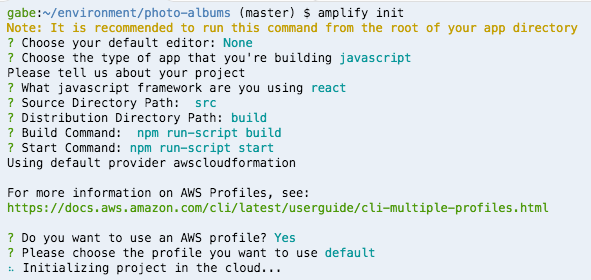
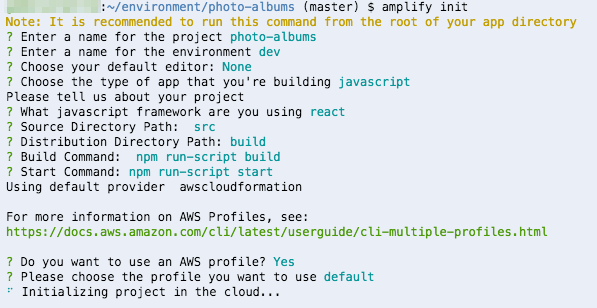
Updated to include new env parameter used by recent versions of Amplify

Changed region(s): [[0.0, 0.0, 1.0, 0.6286], [0.0, 0.6571, 0.9442, 0.7714], [0.0, 0.8286, 0.6396, 0.9714]]

diff --git a/content/70_generating_thumbnails/20_connecting_the_lambda_to_the_bucket.md b/content/70_generating_thumbnails/20_connecting_the_lambda_to_the_bucket.md
@@ -9,7 +9,7 @@ Now that we've created our Photo Processor function, we need to set up a trigger
 
 1. **Replace photo-albums/amplify/backend/storage/photoalbumsstorage/s3-cloudformation-template.json** with the following:
 <div style="height: 550px; overflow-y: scroll;">
-{{< highlight json "hl_lines=78-87 121-144 147-163">}}
+{{< highlight json "hl_lines=26-28 90-99 152-175 178-195">}}
 {
 	"AWSTemplateFormatVersion": "2010-09-09",
 	"Description": "S3 resource stack creation using Amplify CLI",
@@ -34,9 +34,21 @@ Now that we've created our Photo Processor function, we need to set up a trigger
 		},
 		"authPermissions": {
 			"Type": "String"
-		}
+		},
+		"env": {
+            "Type": "String"
+        }
+
 	},
 	"Conditions": {
+		"ShouldNotCreateEnvResources": {
+            "Fn::Equals": [
+                {
+                    "Ref": "env"
+                },
+                "NONE"
+            ]
+        },
 		"EnableUnauthReadWrite": {
 			"Fn::Equals": [
 				{
@@ -102,8 +114,27 @@ Now that we've created our Photo Processor function, we need to set up a trigger
 			"DeletionPolicy" : "Retain",
 			"Properties": {
 				"BucketName": {
-					"Ref": "bucketName"
-				},
+                    "Fn::If": [
+                        "ShouldNotCreateEnvResources",
+                        {
+                            "Ref": "bucketName"
+                        },
+                        {
+                            "Fn::Join": [
+                                "",
+                                [
+                                    {
+                                        "Ref": "bucketName"
+                                    },
+                                    "-",
+                                    {
+                                        "Ref": "env"
+                                    }
+                                ]
+                            ]
+                        }
+                    ]
+                },
 				"CorsConfiguration": {
 					"CorsRules": [
 						{
@@ -825,9 +856,12 @@ You can find this value in **photo-albums/src/aws-exports.js** under the **aws_u
 4. Wait for the update to complete. This step usually only takes a minute or two.
 
 ### What we changed in amplify/.../s3-cloudformation-template.json
-- Added a *NotificationConfiguration* property to the S3Bucket resource, configuring the bucket to invoke our PhotoProcessor lambda function when new photos are added to the 'uploads/' prefix
+- Added a *env* parameter, allowing Amplify to pass in the current Amplify environment name to the template
 
 - Added a *InvokePhotoProcessorLambda* resource, giving the S3Bucket permission to invoke the PhotoProcessor lambda function.
+
+- Added a *NotificationConfiguration* property to the S3Bucket resource, configuring the bucket to invoke our PhotoProcessor lambda function when new photos are added to the 'uploads/' prefix
+
 
 - Added a *DenyListS3Buckets* IAM policy, preventing authenticated users from listing the contents of any buckets on S3
 

diff --git a/content/70_generating_thumbnails/10_creating_a_photo_processor_lambda.md b/content/70_generating_thumbnails/10_creating_a_photo_processor_lambda.md
@@ -212,11 +212,14 @@ exports.handler = async (event, context, callback) => {
 
 8.  **Replace photo-albums/amplify/backend/function/workshopphotoprocessor/workshopphotoprocessor-cloudformation-template.json** with the following:
 <div style="height: 550px; overflow-y: scroll;">
-{{< highlight json "hl_lines=4-11 26-31 100-183">}}
+{{< highlight json "hl_lines=4-14 29-36 100-183">}}
 {
 	"AWSTemplateFormatVersion": "2010-09-09",
 	"Description": "Lambda resource stack creation using Amplify CLI",
 	"Parameters": {
+		"env": {
+            "Type": "String"
+        },
 		"S3UserfilesBucketName": {
 			"Type": "String"
 		},
@@ -240,6 +243,7 @@ exports.handler = async (event, context, callback) => {
 				"Timeout": "25",
 				"Environment": {
 					"Variables": {
+						"ENV": {"Ref": "env"},
 						"THUMBNAIL_WIDTH": "80",
 						"THUMBNAIL_HEIGHT": "80",
 						"DYNAMODB_PHOTOS_TABLE_ARN": { "Ref": "DynamoDBPhotosTableArn" }
@@ -427,9 +431,9 @@ exports.handler = async (event, context, callback) => {
 ### What we changed
 - Created a *parameters.json* file to pass some values into the Photo Processor function's CloudFormation template
 
-- Added parameters *S3UserfilesBucketName* and *DynamoDBPhotosTableArn* to the Photo Processor function's CloudFormation template
+- Added parameters *env*, *S3UserfilesBucketName*, and *DynamoDBPhotosTableArn* to the Photo Processor function's CloudFormation template
 
-- Added environment variables to the Photo Processor function's configuration: *THUMBNAIL_WIDTH*, *THUMBNAIL_HEIGHT*, *DYNAMODB_PHOTOS_TABLE_ARN*
+- Added environment variables to the Photo Processor function's configuration: *ENV*, *THUMBNAIL_WIDTH*, *THUMBNAIL_HEIGHT*, *DYNAMODB_PHOTOS_TABLE_ARN*
 
 - Added an *AllPrivsForPhotoAlbums* IAM policy to grant the function's role read and write access to the S3 bucket containing our photos
 

diff --git a/content/30_adding_auth/10_adding_auth_back.md b/content/30_adding_auth/10_adding_auth_back.md
@@ -21,6 +21,10 @@ Here's what the sign-in screen will look like:
 
 1. **Run** `amplify init`
 
+1. **Press _Enter_** to accept the default project name 'photo-albums'
+
+1. **Enter 'dev'** for the environment name
+
 1. **Select 'None'** for the default editor (we're using Cloud9)
 
 1. **Choose JavaScript and React** when prompted
